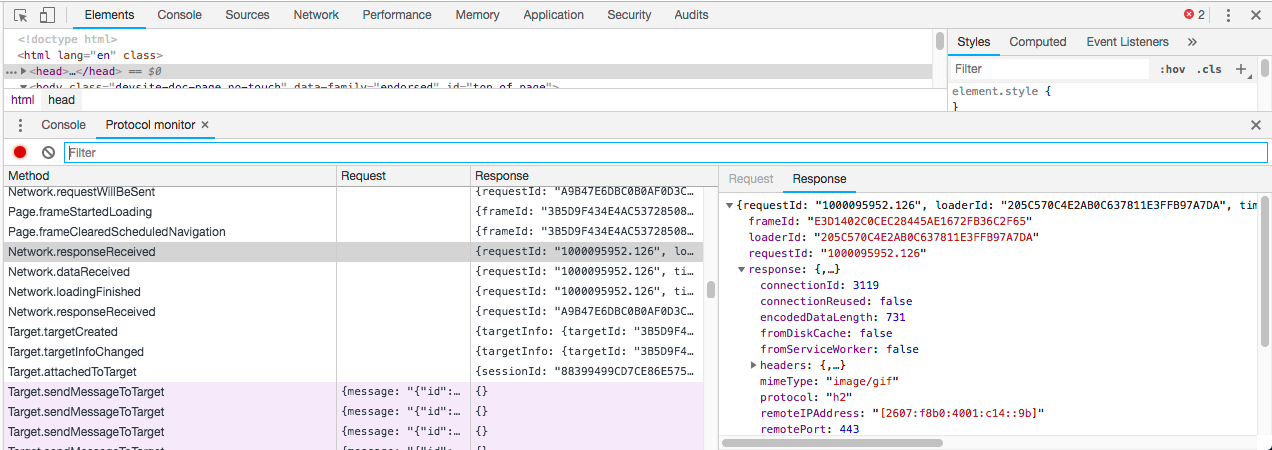
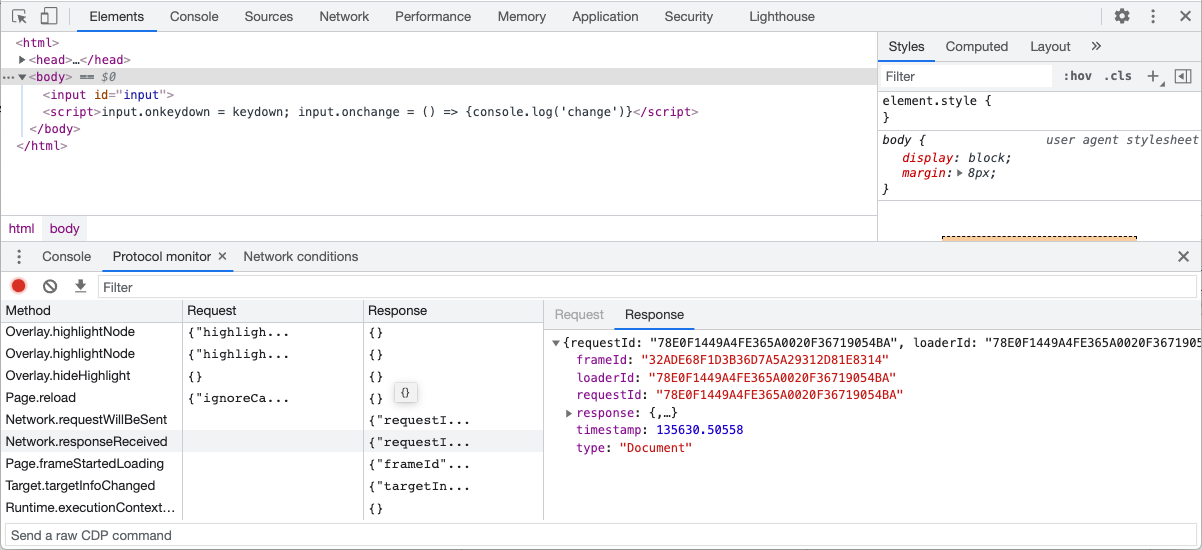
Update documentation about Protocol Monitor (#169)

Changed region(s): [[0.0, 0.0, 1.0, 1.0], [0.1539, 0.7156, 0.2155, 0.7467]]

diff --git a/pages/index.md b/pages/index.md
@@ -96,19 +96,23 @@ You can view all requests/responses and methods as they happen.
 
 <figure class="screenshot">
   <a href="images/protocol-monitor.png" target="_blank" style="text-align: center; display:block;">
-    <img src="images/protocol-monitor.png" height="260" alt="Screenshot of the Protocol Monitor" loading="lazy">
+    <img src="images/protocol-monitor.png" height="300" alt="Screenshot of the Protocol Monitor" loading="lazy">
   </a>
 </figure>
 
-<p>To use, first <a href="https://stackoverflow.com/a/15680012/89484">enable DevTools experiments</a>.
-Then click the ⋮ menu icon in the top-right of the DevTools, and select <i>Settings</i>.
+Click the gear icon in the top-right of the DevTools to open the <i>Settings</i> panel.
 Select <i>Experiments</i> on the left of settings. Turn on "Protocol Monitor", then close and reopen DevTools.
-Now click the ⋮ menu icon again, choose <i>More Tools</i> and then select <i>Protocol monitor</i>.
+Now click the ⋮ menu icon, choose <i>More Tools</i> and then select <i>Protocol monitor</i>.
 
-<p>You can also issue your own commands. First, <a href="https://stackoverflow.com/a/12291163/89484">open devtools-on-devtools</a>,
+<p>You can also issue your own commands using Protocol Monitor (verion 92.0.4497.0+). If the command does not require any parameters,
+type the command into the prompt at the bottom of the Protocol Monitor panel and press Enter, for example, 
+<code>Page.captureScreenshot</code>. If the command requires parameters, provide them as JSON, for example,
+<code>{"command":"Page.captureScreenshot","parameters":{"format": "jpeg"}}</code>.
+
+<p>Alternatively, you can execute commands from the DevTools console. First, <a href="https://stackoverflow.com/a/12291163/89484">open devtools-on-devtools</a>,
 then within the inner DevTools window, use <code>Main.MainImpl.sendOverProtocol()</code> in the console:
 
-<pre>let Main = await import('./main/main.js');
+<pre>let Main = await import('./entrypoints/main/main.js'); // or './main/main.js' depending on the browser version
 await Main.MainImpl.sendOverProtocol('Emulation.setDeviceMetricsOverride', {
   mobile: true,
   width: 412,
